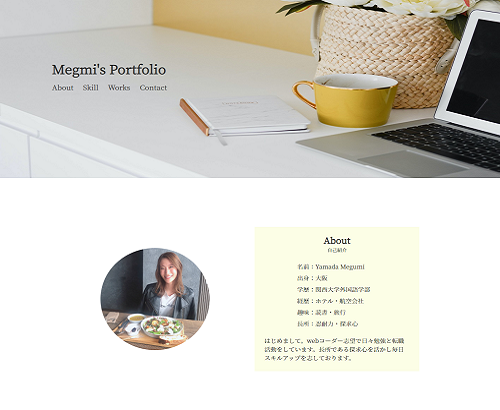
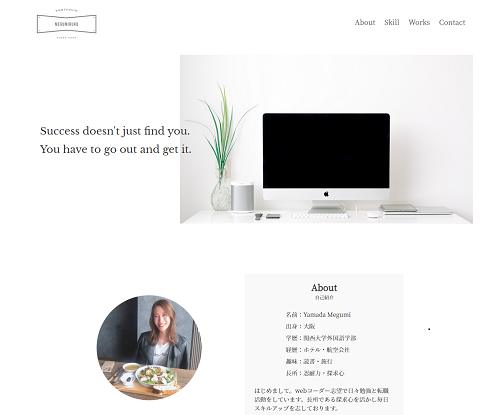
second-commit

diff --git a/index.html b/index.html
@@ -13,6 +13,7 @@
   <link
     href="https://fonts.googleapis.com/css2?family=Amatic+SC&family=Great+Vibes&family=Satisfy&family=Tangerine:wght@700&display=swap"
     rel="stylesheet">
+  <link href="https://fonts.googleapis.com/css2?family=Libre+Baskerville&display=swap" rel="stylesheet">
   <script src="https://kit.fontawesome.com/00a1c9d60e.js" crossorigin="anonymous"></script>
 </head>
 
@@ -26,7 +27,7 @@
         <a href="#"><img src="./image/logo.jpg" alt="" class="logo"></a>
       </div>
       <div class="right">
-        <nav>
+        <nav class="header-nav">
           <ul class="header-nav-list flex">
             <li><a href="#about">About</a></li>
             <li><a href="#skill">Skill</a></li>
@@ -44,7 +45,6 @@
   <div class="firstview">
     <img src="./image/jessy-smith-zFOm6KzA-7g-unsplash.jpg" alt="">
     <p  class="firstview-text">Success doesn't just find you.<br>You have to go out and get it.</p>
-    <!-- <p  class="firstview-text">Thank you for coming. <br>Please enjoy my portfolio!</p> -->
   </div>
 
   <!-- ----------
@@ -167,27 +167,8 @@
       <p class="sub-ttl">お問い合わせ</p>
       <di class="form">
         <p class="message">ここまで私のポートフォリオサイトをご覧頂きありがとうございます。
-        お問い合わせやご意見などございましら下記のフォームよりお願い致します。また、私自身まだまだ未熟者なのでアドバイスやご意見などもございましたら頂けると幸いです。</p>
-        <form action="https://docs.google.com/forms/u/0/d/e/1FAIpQLScLLV9mTmyCgwFDM839kAzR3TyoiXYQl3rGnPkkIxx4q3661g/formResponse" method="POST"　target="hidden_iframe" onload="submitted=true;">
-          <div>
-            <input type="text" name="entry.2005620554" placeholder="Name" required=""/>
-          </div>
-          <div>
-            <input type="email"  name="entry.1045781291" placeholder="Email" required=""/>
-          </div>
-          <div>
-            <input type="tel"  name="entry.1065046570" placeholder="Subject"/>
-          </div>
-          <div>
-            <textarea name="entry.839337160" placeholder="Message" required=""></textarea>
-          </div>
-          <div class="button-submit">
-            <input type="submit" class="button" value="Send"/>
-          </div>
-          <script type="text/javascript">var submitted = false;</script>
-          <iframe name="hidden_iframe" id="hidden_iframe" style="display:none;"
-            onload="if(submitted){window.location='https://frosty-brahmagupta-47ff2f.netlify.app/thanks.html';}"></iframe>
-        </form>
+        お問い合わせやご意見などございましら下記のメールアドレスよりご連絡お願い致します。</p>
+        <p class="email">megumiruku05@gmail.com</p>
       </div>
     </div>
   </div>
@@ -198,7 +179,7 @@
   
   <div class="footer">
     <a href="#" class="go-top">TOPへ戻る</a>
-    <small class="copyright">Copyright @ Megumi’s Portfolio All Rights Reserved</small>
+    <small class="copyright">Copyright @ Megumiruku Portfolio All Rights Reserved</small>
   </div>
 
 </body>

diff --git a/css/style.css b/css/style.css
@@ -8,7 +8,7 @@ body {
   font-family: 'Noto Serif JP', serif;
   color: #333;
   background-color: #fff;
-  max-width: 100%;
+  box-sizing: border-box;
 }
 
 a {
@@ -51,13 +51,13 @@ ul {
 ---------- */
 
 .header {
-  max-height: 120px;
+  height: 120px;
   width: 100%;
   margin-bottom: 30px;
   position: sticky;
   top: 0px;
   z-index: 1;
-  background-color: #FFF;
+  background-color: #fff;
 } 
 
 .logo {
@@ -87,6 +87,10 @@ ul {
   border-bottom: 1px solid #333;
 }
 
+.menu-content {
+  display: none;
+}
+
 /* ----------
 ----firstview----
 ---------- */
@@ -97,16 +101,18 @@ ul {
 
 .firstview img {
   display: block;
-  margin: 0 0 0 35%;
+  margin: 0 0 0 36%;
+  max-width: 100%;
 }
 
 .firstview-text {
   position: absolute;
   top: 40%;
-  left: 10%;
-  font-family: 'Great Vibes', cursive;
-  font-size: 35px;
+  left: 8%;
+  font-family: 'Libre Baskerville', serif;
+  font-size: 28px;
   line-height: 50px;
+  animation: fadein 3s  iteration-count direction fill-mode;;
 }
 
 
@@ -235,6 +241,7 @@ ul {
 .contact {
   background-color: rgba(196, 196, 196, 12%);
   padding-bottom: 20px;
+  text-align: center;
 }
 
 .message {
@@ -244,43 +251,11 @@ ul {
   font-size: 0.9rem;
 }
 
-form {
-  width: 100%;
-  text-align: center;
-}
-
-input,
-textarea {
-  box-sizing: border-box;
-  border: 1px solid #999;
-  width: 45%;
-}
-
-input {
-  margin-bottom: 25px;
-  padding: 7px;
-}
-
-textarea {
-  vertical-align: top;
-  height: 150px;
-}
-
-.button{
-  width: 20%;
-  margin-top: 50px;
-  text-align: center;
-  padding: 10px px;
-  font-size: 15px;
-  background-color:#fff;
-  border: 1px solid #999;
-  border-radius: 2px;
-  outline: none;
-  cursor: pointer;
-}
-
-.button:hover {
-  opacity: 0.7;
+.email {
+  border: 1px solid #333;
+  width: 300px;
+  padding: 10px 20px;
+  margin: 0 auto;
 }
 
 /* ----------
@@ -400,6 +375,8 @@ tr li {
   display: block;
   padding: 10px;
 }
+
+
 
 
 

diff --git a/about/my-portfolio.html b/about/my-portfolio.html
@@ -35,11 +35,11 @@
   <div class="main">
     <p class="page-ttl">Works</p>
     <div class="page-introduce">
-      <h2 class="work-ttl">[架空] WEBサイト｜Megumiruku Portfolio</h2>
+      <h2 class="work-ttl">WEBサイト｜Megumiruku Portfolio</h2>
       <table class="table">
         <tr>
           <th>制作期間</th>
-          <td>5日</td>
+          <td>3日</td>
         </tr>
         <tr>
           <th>制作領域</th>
@@ -62,12 +62,12 @@
         <tr>
           <th>URL</th>
           <td><a class="link" target="_blank"
-              href=""></a></td>
+              href="https://megumiruku-portfolio.netlify.app/">https://megumiruku-portfolio.netlify.app/</a></td>
         </tr>
       </table>
     </div>
     <div class="photos">
-      <img src="">
+      <img class="desktop-img" src="../image/Portfolio-dektop.png">
     </div>
   </div>
   <div class="button-left">
